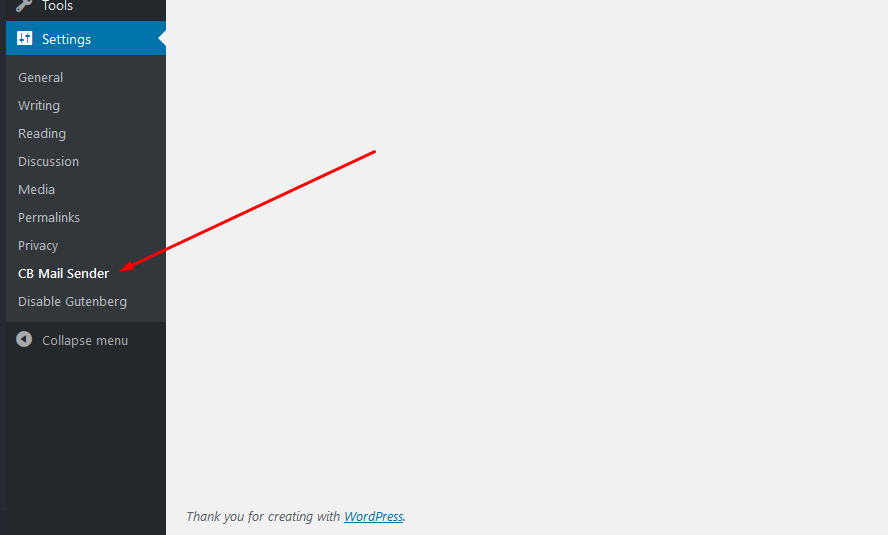
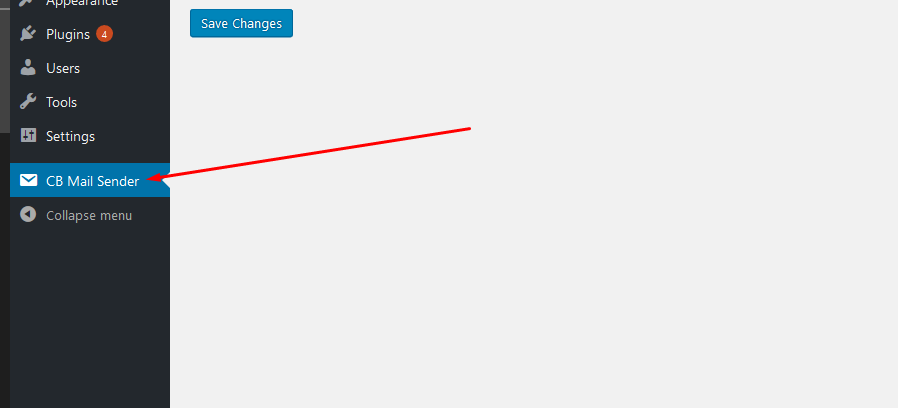
menu position restore

Changed region(s): [[0.0, 0.0, 0.5169, 0.5882], [0.2128, 0.9412, 0.4561, 1.0], [0.0, 0.6176, 0.152, 0.6471]]

diff --git a/index.php b/index.php
@@ -59,7 +59,7 @@ function cb_mail_sender_text() {
 
 
 function cb_mail_sender_menu() {
-	add_submenu_page('options-general.php', __('CB Mail Sender Options', 'cb-mail'), __('CB Mail Sender', 'cb-mail'), 'manage_options', 'cb_mail_sender', 'cb_mail_sender_output');
+	add_menu_page(__('CB Mail Sender Options', 'cb-mail'), __('CB Mail Sender', 'cb-mail'), 'manage_options', 'cb_mail_sender', 'cb_mail_sender_output', 'dashicons-email');
 
 
 }

diff --git a/README.md b/README.md
@@ -9,7 +9,7 @@ You can watch this video
 https://www.youtube.com/watch?v=aJ6k_yD8cag
 
 ## screenshots
-![admin panel](https://raw.githubusercontent.com/hmbashar/CB-Change-Mail-Sender/master/screenshots/screenshot-1.png)
+![admin panel](https://ps.w.org/cb-change-mail-sender/assets/screenshot-1.png)
 ![admin panel](https://raw.githubusercontent.com/hmbashar/CB-Change-Mail-Sender/master/screenshots/screenshot-2.png)
 ![received email](https://raw.githubusercontent.com/hmbashar/CB-Change-Mail-Sender/master/screenshots/screenshot-3.png)
 
@@ -28,3 +28,6 @@ https://www.youtube.com/watch?v=aJ6k_yD8cag
 
 ##### 1.2.1
 * Security Improved with translate support
+
+##### 1.2.2
+* ** Setting Menu position restore
